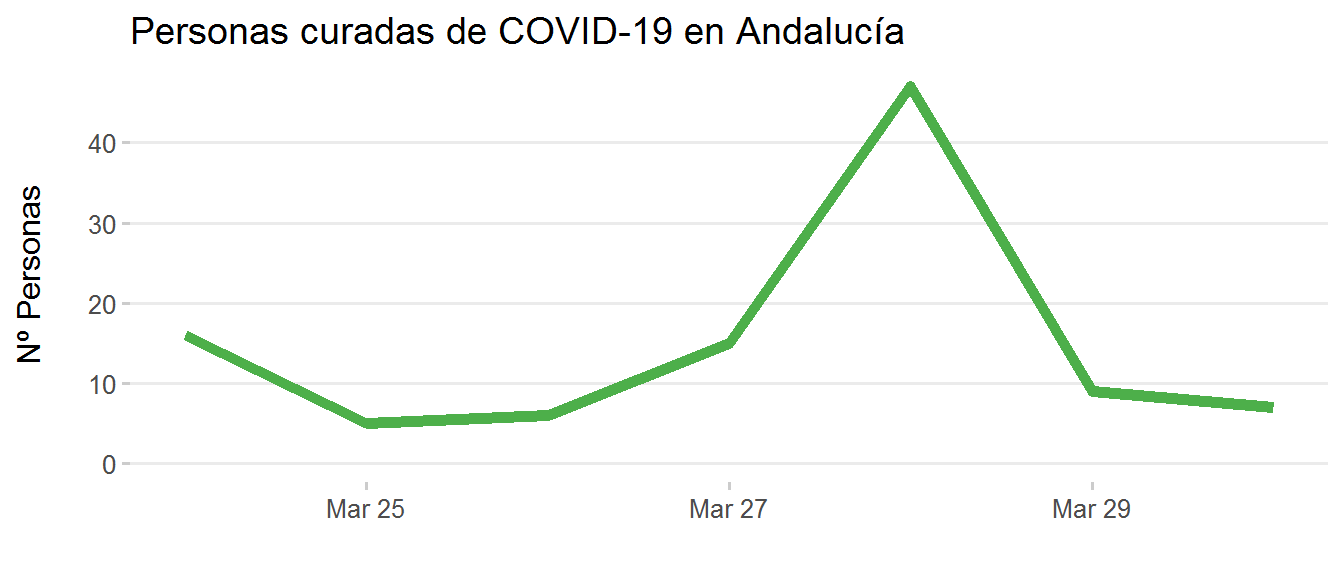
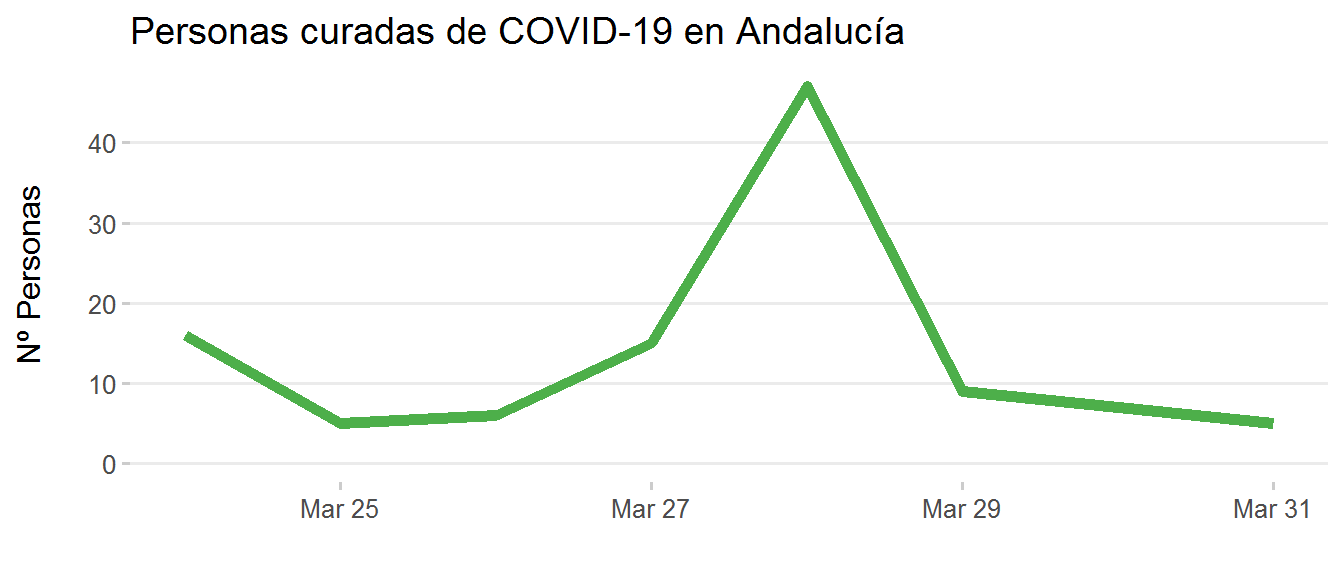
update 31 Marzo

diff --git a/evolucion-coronavirus-andalucia.html b/evolucion-coronavirus-andalucia.html
@@ -194,7 +194,7 @@ summary {
 <p><br></p>
 <p>Aquí se visualiza la evolución de la enfermedad del coronavirus (COVID-19) en Andalucía, según los <a href="https://www.juntadeandalucia.es/organismos/saludyfamilias/areas/salud-vida/paginas/Nuevo_Coronavirus.html">datos oficiales ofrecidos por la Consejería de Salud y Familias</a>. A diferencia de otras visualizaciones más extendidas, que representan datos acumulados en el tiempo, aquí se enfatizan las <strong>variaciones diarias absolutas (no acumuladas)</strong> en número de casos detectados, personas en seguimiento activo, ingresadas, dadas de alta y curadas, y número de fallecimientos.</p>
 <p>Los datos se actualizan diariamente. Tanto los datos como el código empleado para generar estas visualizaciones está disponible <a href="https://github.com/Pakillo/COVID19-Andalucia">aquí</a>.</p>
-<p>Última actualización: 2020-03-30</p>
+<p>Última actualización: 2020-03-31</p>
 <ul>
 <li><a href="#casos-detectados">Casos detectados</a></li>
 <li><a href="#personas-en-seguimiento-activo">Personas en seguimiento activo</a></li>
